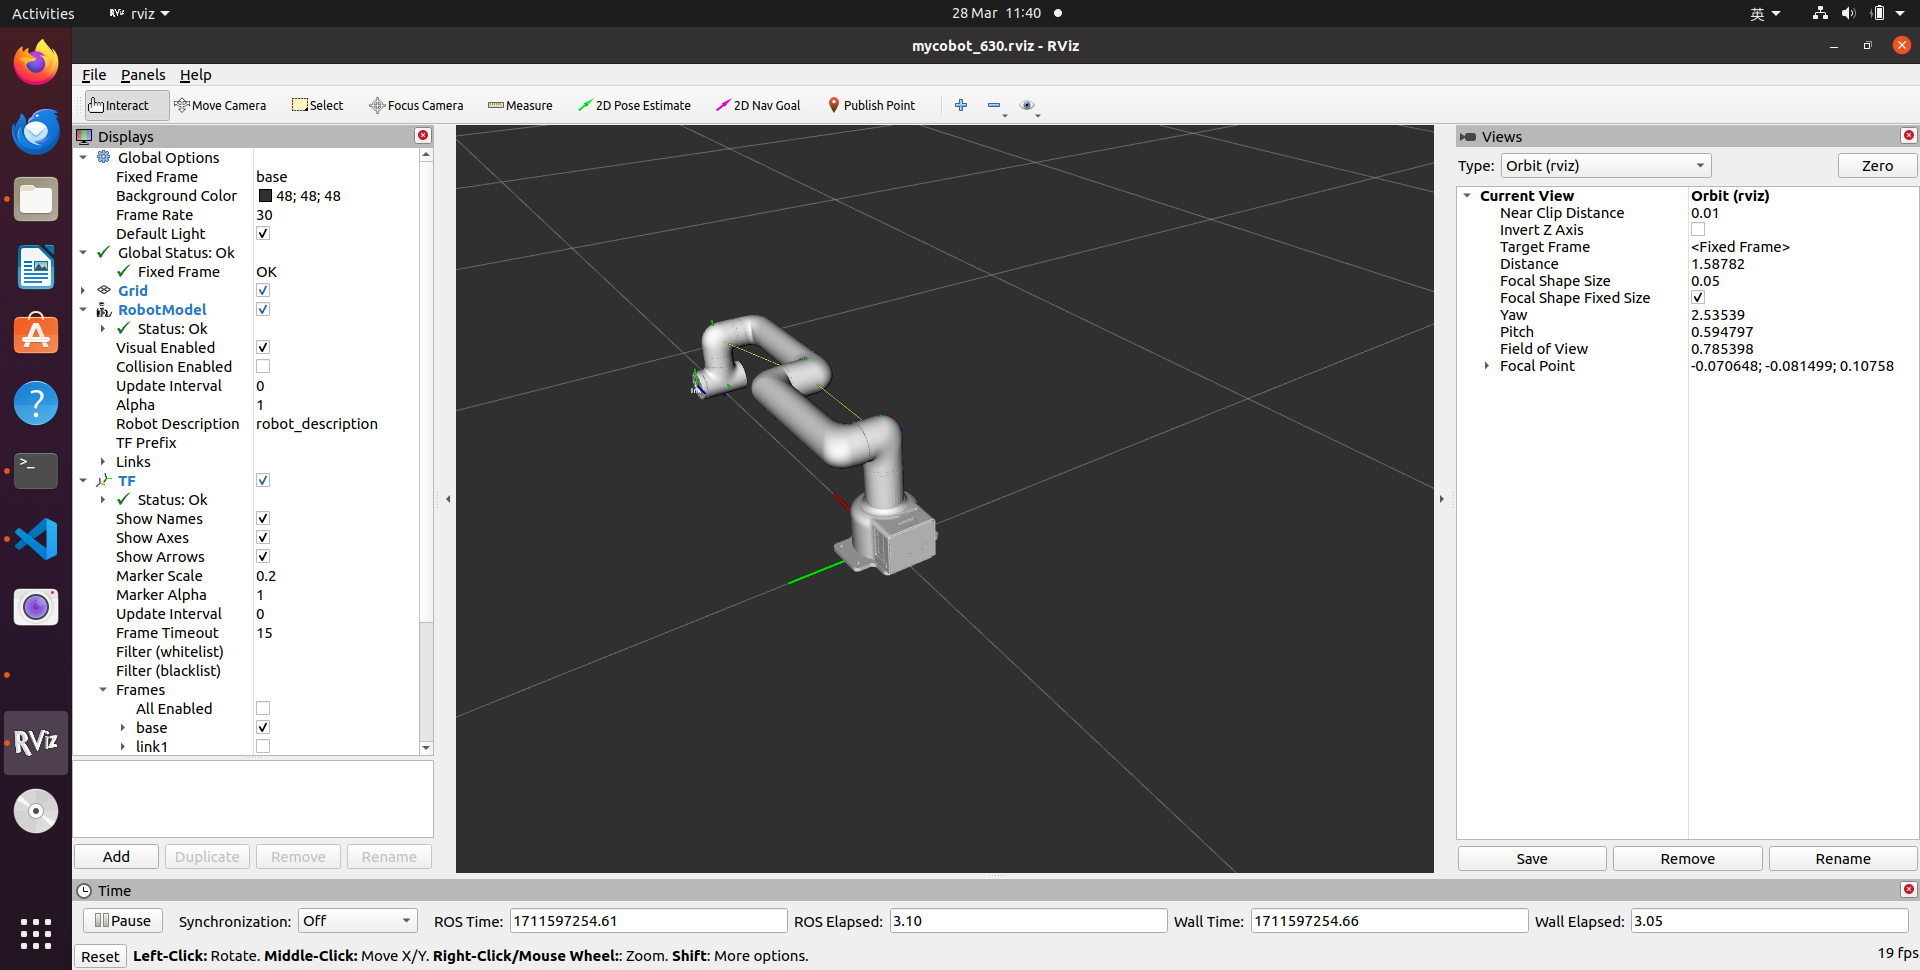
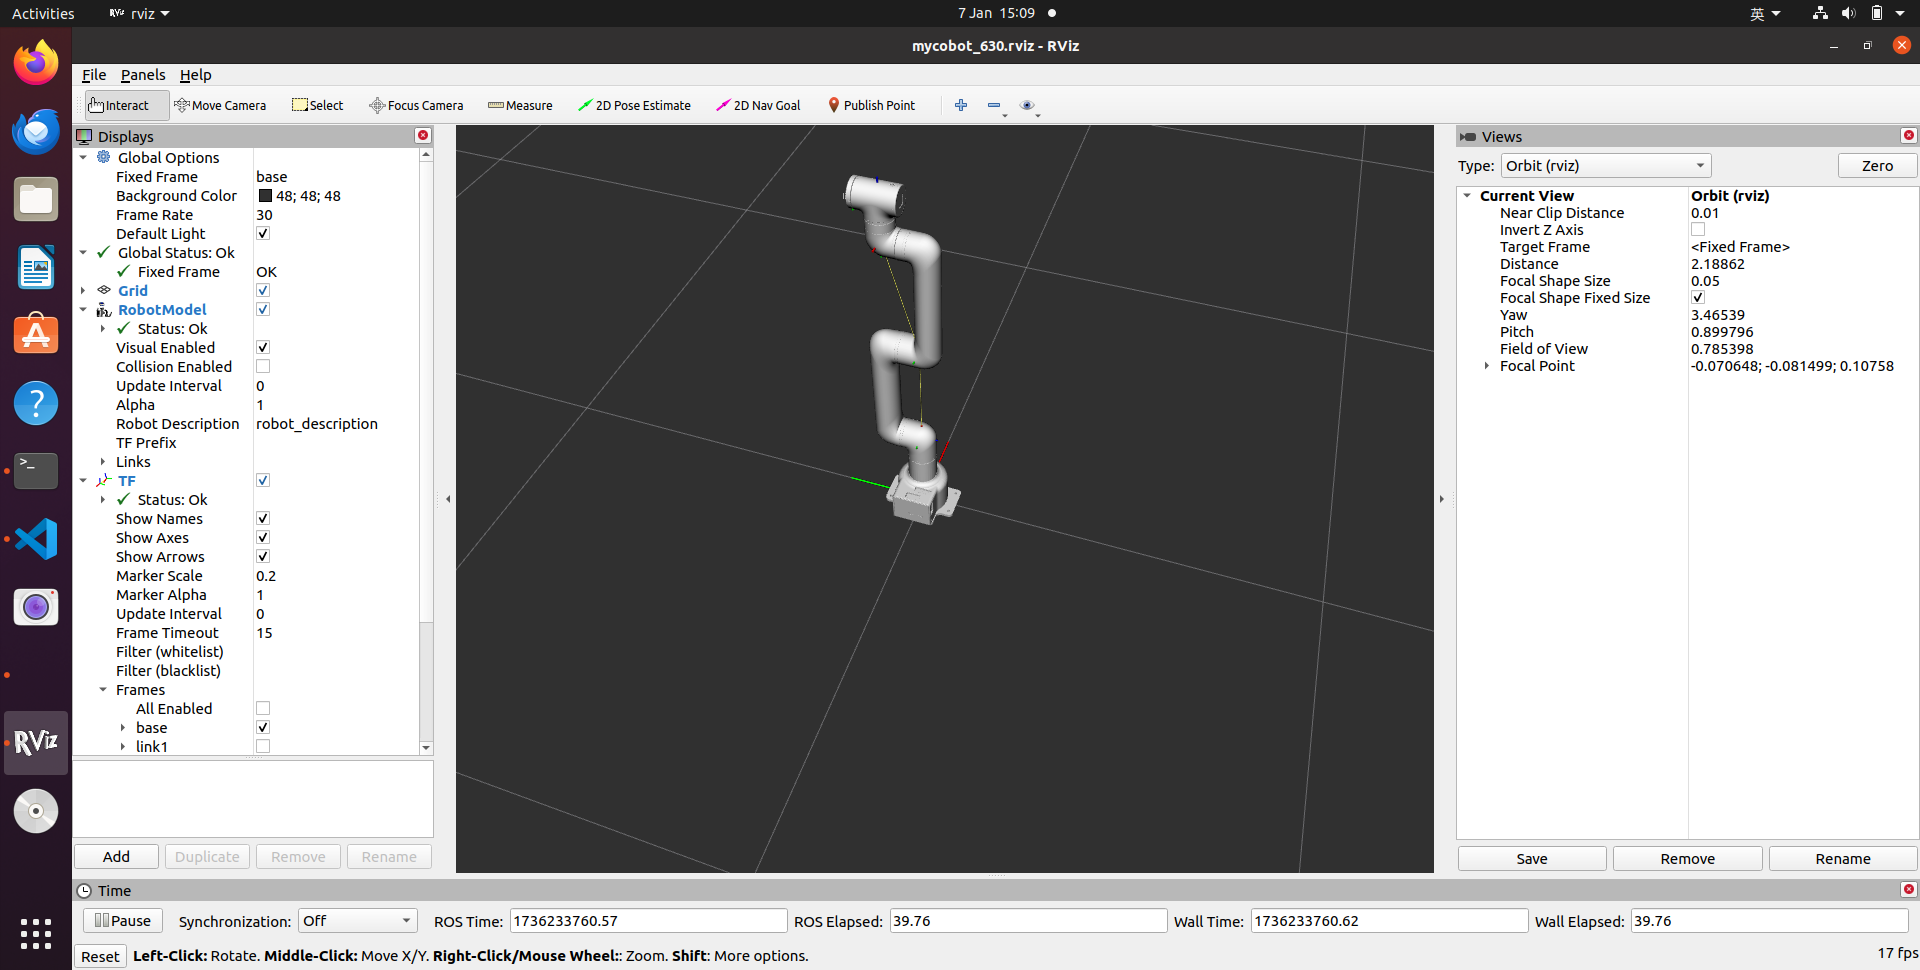
更新630 URDF模型初始姿态

diff --git a/mycobot_pro/mycobot_630/scripts/mycobot_630_slider.py b/mycobot_pro/mycobot_630/scripts/mycobot_630_slider.py
@@ -21,6 +21,9 @@ def callback(data):
     for index, value in enumerate(data.position):
         radians_to_angles = round(math.degrees(value), 2)
         data_list.append(radians_to_angles)
+    
+    data_list[1] = data_list[1] - 90
+    data_list[3] = data_list[3] - 90
         
     rospy.loginfo(rospy.get_caller_id() + "%s", data_list)
     mc.write_angles(data_list, 800)
